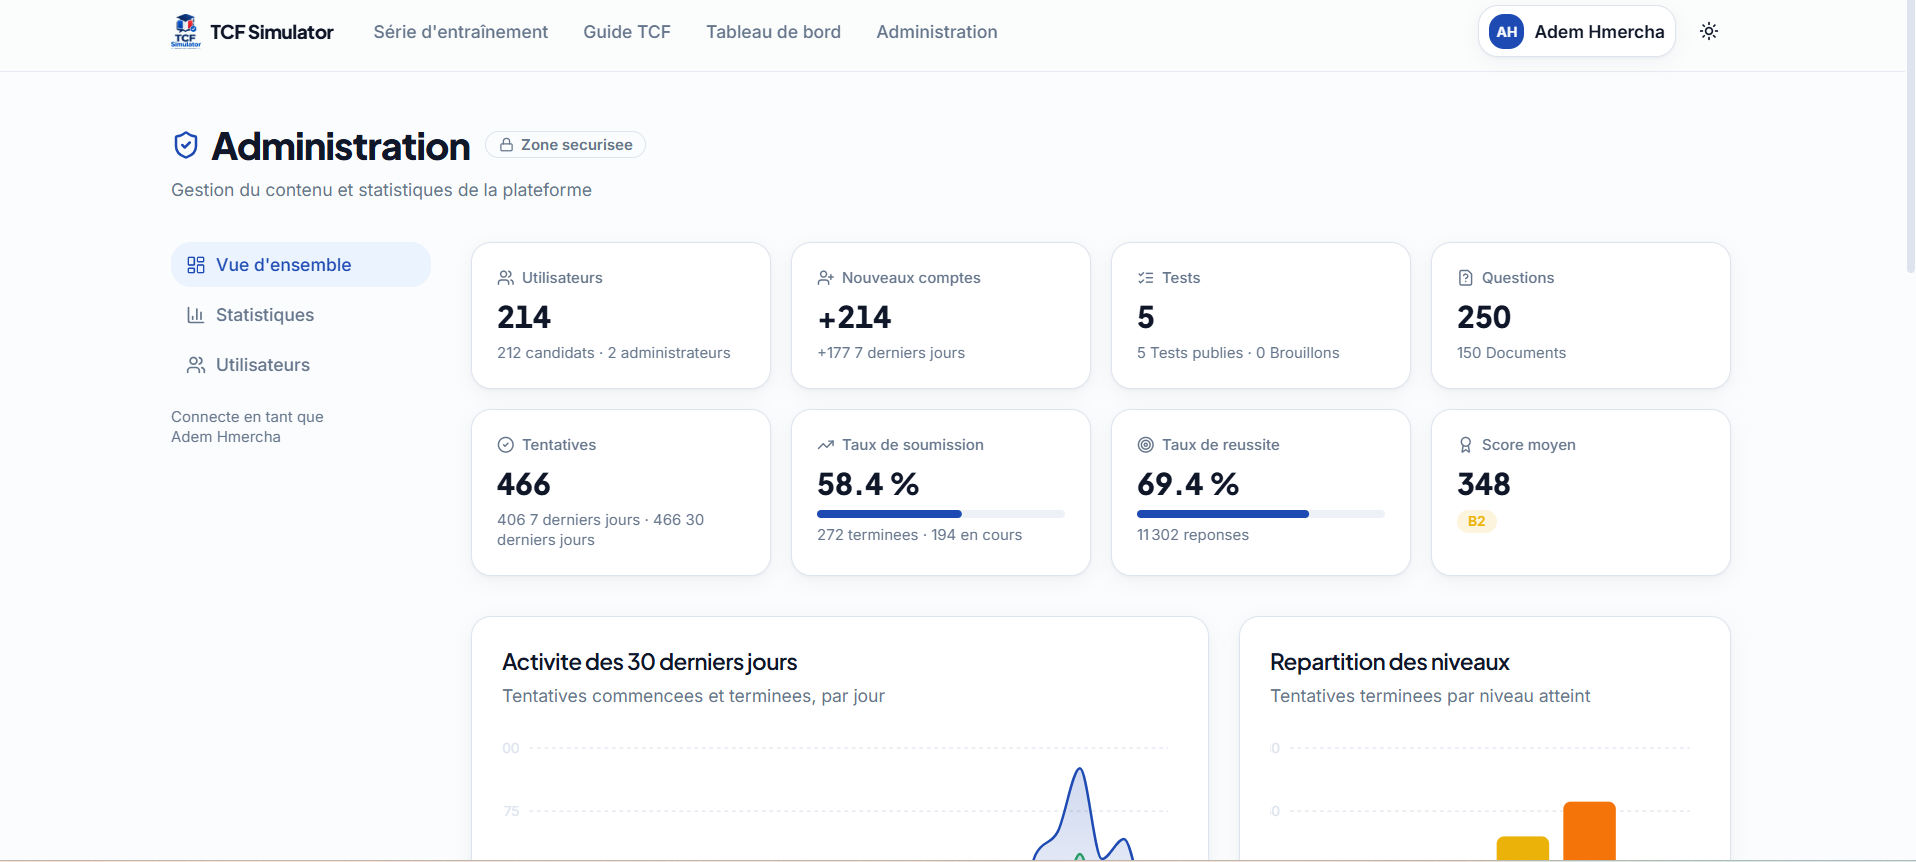
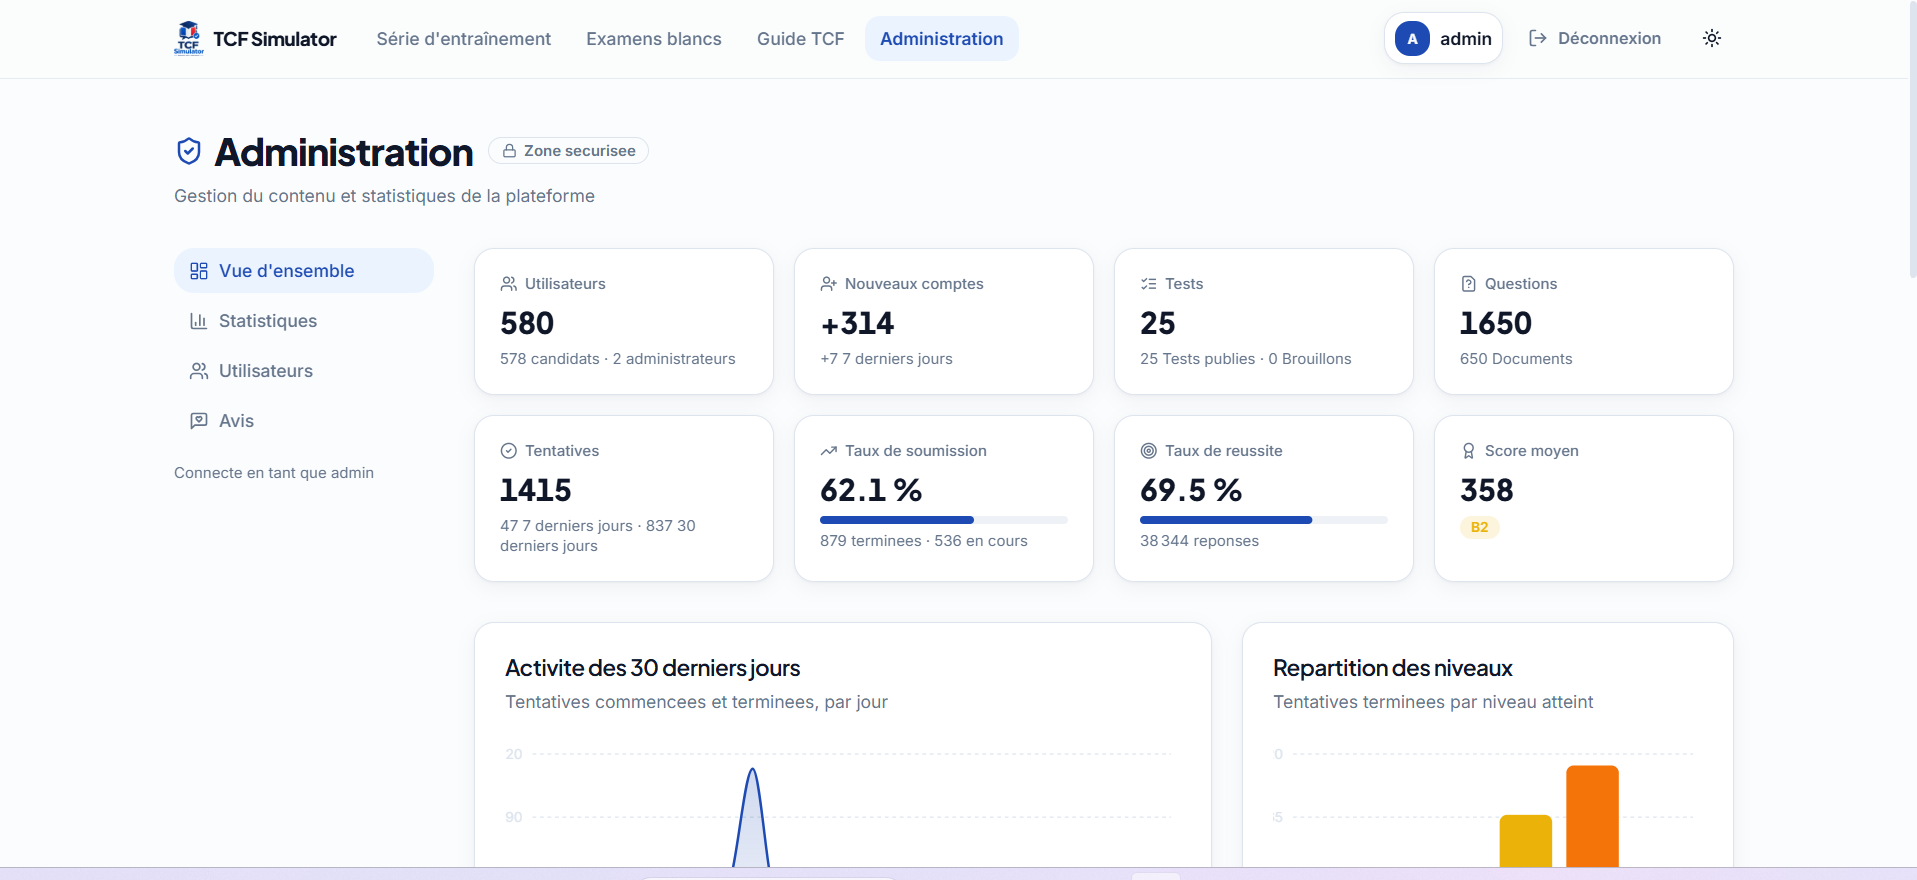
docs(readme): mettre à jour les captures analytics et admin

diff --git a/README.md b/README.md
@@ -479,17 +479,18 @@ Réservé aux comptes `ADMIN`. La vue d'ensemble regroupe les indicateurs clés 
 utilisateurs et nouveaux comptes, tests publiés, questions, tentatives, taux de
 soumission, taux de réussite et score moyen, avec l'activité des 30 derniers
 jours et la répartition des niveaux atteints. Les pages **Statistiques** et
-**Utilisateurs** détaillent ces chiffres.
+**Utilisateurs** détaillent ces chiffres, et la page **Avis** permet de modérer
+les avis des candidats avant leur publication sur la page d'accueil.
 
 ![Vue d'ensemble de l'administration : utilisateurs, tentatives, taux de réussite et score moyen](docs/images/analytics-admin-apercu.png)
 
 ### Audience (Vercel Analytics)
 
 Le site est mesuré avec `@vercel/analytics` : visiteurs, pages vues, taux de
-rebond, évolution sur 7 jours, ainsi que la répartition par pays, appareil et
+rebond, évolution sur 30 jours, ainsi que la répartition par pays, appareil et
 système d'exploitation.
 
-![Vercel Analytics : visiteurs, pages vues et taux de rebond sur 7 jours](docs/images/analytics-vercel-visiteurs.png)
+![Vercel Analytics : visiteurs, pages vues et taux de rebond sur 30 jours](docs/images/analytics-vercel-visiteurs.png)
 
 ![Vercel Analytics : répartition par pays, appareil et système d'exploitation](docs/images/analytics-vercel-audience.png)
 
